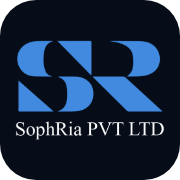
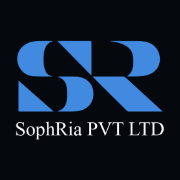
feat: add data folder for flooring and renovation services with full copy from www.sophria.ca

diff --git a/app/layout.tsx b/app/layout.tsx
@@ -8,27 +8,14 @@ export const metadata: Metadata = {
   description: 'Sophria Private Limited — Sourcing, installing and repairing terrazzo, tile, stone, resilient flooring and luxury bespoke renovations across Mississauga and Ontario for over 25 years.',
   applicationName: 'Sophria Private Limited',
   authors: [{ name: 'Sophria Private Limited' }],
-  keywords: [
-    'Terrazzo Flooring Mississauga',
-    'Commercial Flooring Ontario',
-    'VCT Flooring',
-    'Carpet Tile',
-    'Rubber Flooring',
-    'Sheet Vinyl',
-    'Epoxy Flooring',
-    'Kitchen Remodeling Mississauga',
-    'Bathroom Renovations Mississauga',
-    'Basement Finishing Ontario',
-    'Quartz Countertops Mississauga',
-  ],
   icons: {
     icon: [
       { url: '/assets/favicon-32.png', sizes: '32x32', type: 'image/png' },
-      { url: '/assets/sophria-logo.png', type: 'image/png' },
+      { url: '/favicon.ico', sizes: 'any' },
     ],
     apple: [
       { url: '/assets/favicon-180.png', sizes: '180x180', type: 'image/png' },
-      { url: '/assets/sophria-logo.png', type: 'image/png' },
+      { url: '/apple-icon.png', sizes: '180x180', type: 'image/png' },
     ],
     shortcut: '/assets/favicon-32.png',
   },
@@ -39,16 +26,16 @@ export const metadata: Metadata = {
     siteName: 'Sophria Private Limited',
     images: [
       {
-        url: '/assets/og-image.png',
+        url: '/assets/og-share.png',
         width: 1200,
         height: 630,
         alt: 'Sophria Private Limited - Commercial Flooring & Luxury Renovations',
       },
       {
-        url: '/assets/sophria-logo.png',
-        width: 500,
-        height: 180,
-        alt: 'Sophria Logo',
+        url: '/assets/og-square.png',
+        width: 800,
+        height: 800,
+        alt: 'Sophria Private Limited',
       },
     ],
     locale: 'en_CA',
@@ -58,7 +45,7 @@ export const metadata: Metadata = {
     card: 'summary_large_image',
     title: 'Sophria Private Limited | Commercial Flooring & Luxury Renovations Mississauga & Ontario',
     description: 'Sophria Private Limited — Sourcing, installing and repairing terrazzo, tile, stone, resilient flooring and bespoke renovations across Mississauga and Ontario for over 25 years.',
-    images: ['/assets/og-image.png'],
+    images: ['/assets/og-share.png'],
   },
 };
 
@@ -73,20 +60,25 @@ export default function RootLayout({
         <meta charSet="utf-8" />
         <meta name="viewport" content="width=device-width, initial-scale=1, viewport-fit=cover" />
         
-        {/* Favicon & Touch Icons */}
+        {/* Favicon & Touch Icons - Solid Dark Background */}
         <link rel="icon" type="image/png" sizes="32x32" href="/assets/favicon-32.png" />
-        <link rel="icon" type="image/png" href="/assets/sophria-logo.png" />
+        <link rel="icon" type="image/png" sizes="180x180" href="/assets/favicon-180.png" />
         <link rel="apple-touch-icon" sizes="180x180" href="/assets/favicon-180.png" />
         <link rel="shortcut icon" href="/assets/favicon-32.png" />
 
-        {/* Explicit Social / WhatsApp OpenGraph Tags */}
+        {/* Explicit Social / WhatsApp OpenGraph Tags (Solid Black #05080d) */}
         <meta property="og:title" content="Sophria Private Limited | Commercial Flooring & Luxury Renovations Mississauga & Ontario" />
         <meta property="og:description" content="Sophria Private Limited — Sourcing, installing and repairing terrazzo, tile, stone, resilient flooring and luxury bespoke renovations across Mississauga and Ontario for over 25 years." />
-        <meta property="og:image" content="https://sophria-const.vercel.app/assets/og-image.png" />
-        <meta property="og:image:secure_url" content="https://sophria-const.vercel.app/assets/og-image.png" />
+        <meta property="og:image" content="https://sophria-const.vercel.app/assets/og-share.png" />
+        <meta property="og:image:secure_url" content="https://sophria-const.vercel.app/assets/og-share.png" />
         <meta property="og:image:type" content="image/png" />
         <meta property="og:image:width" content="1200" />
         <meta property="og:image:height" content="630" />
+        <meta property="og:image" content="https://sophria-const.vercel.app/assets/og-square.png" />
+        <meta property="og:image:secure_url" content="https://sophria-const.vercel.app/assets/og-square.png" />
+        <meta property="og:image:type" content="image/png" />
+        <meta property="og:image:width" content="800" />
+        <meta property="og:image:height" content="800" />
         <meta property="og:url" content="https://sophria-const.vercel.app/" />
         <meta property="og:site_name" content="Sophria Private Limited" />
         <meta property="og:type" content="website" />
